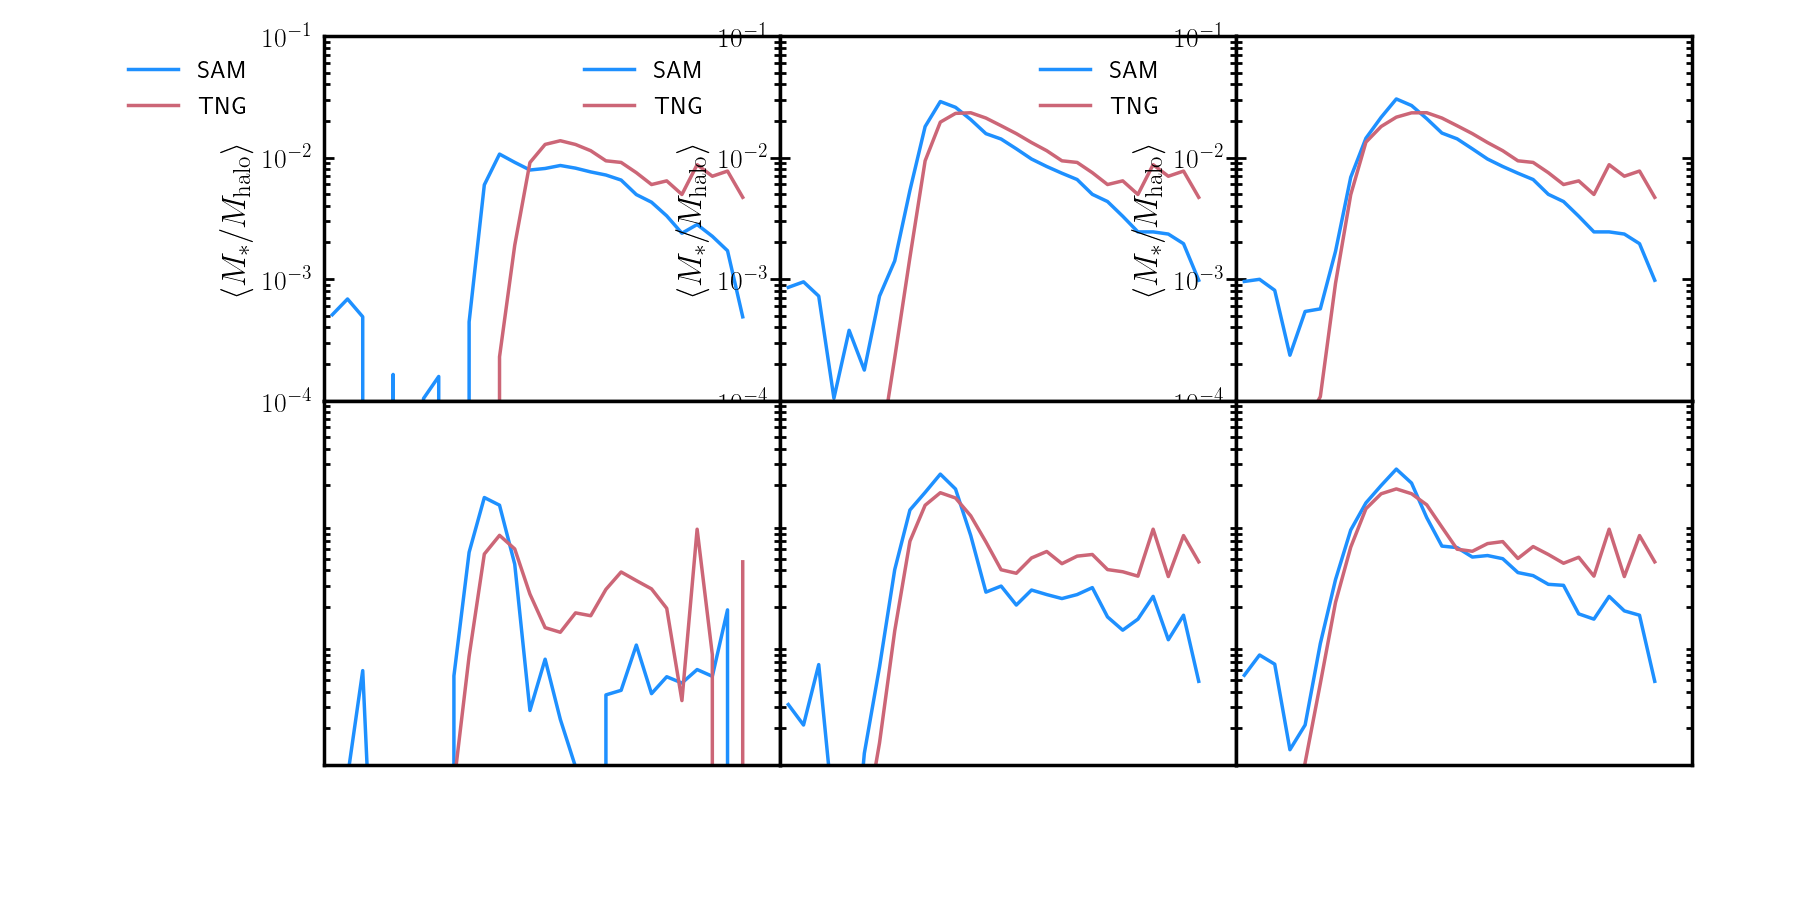
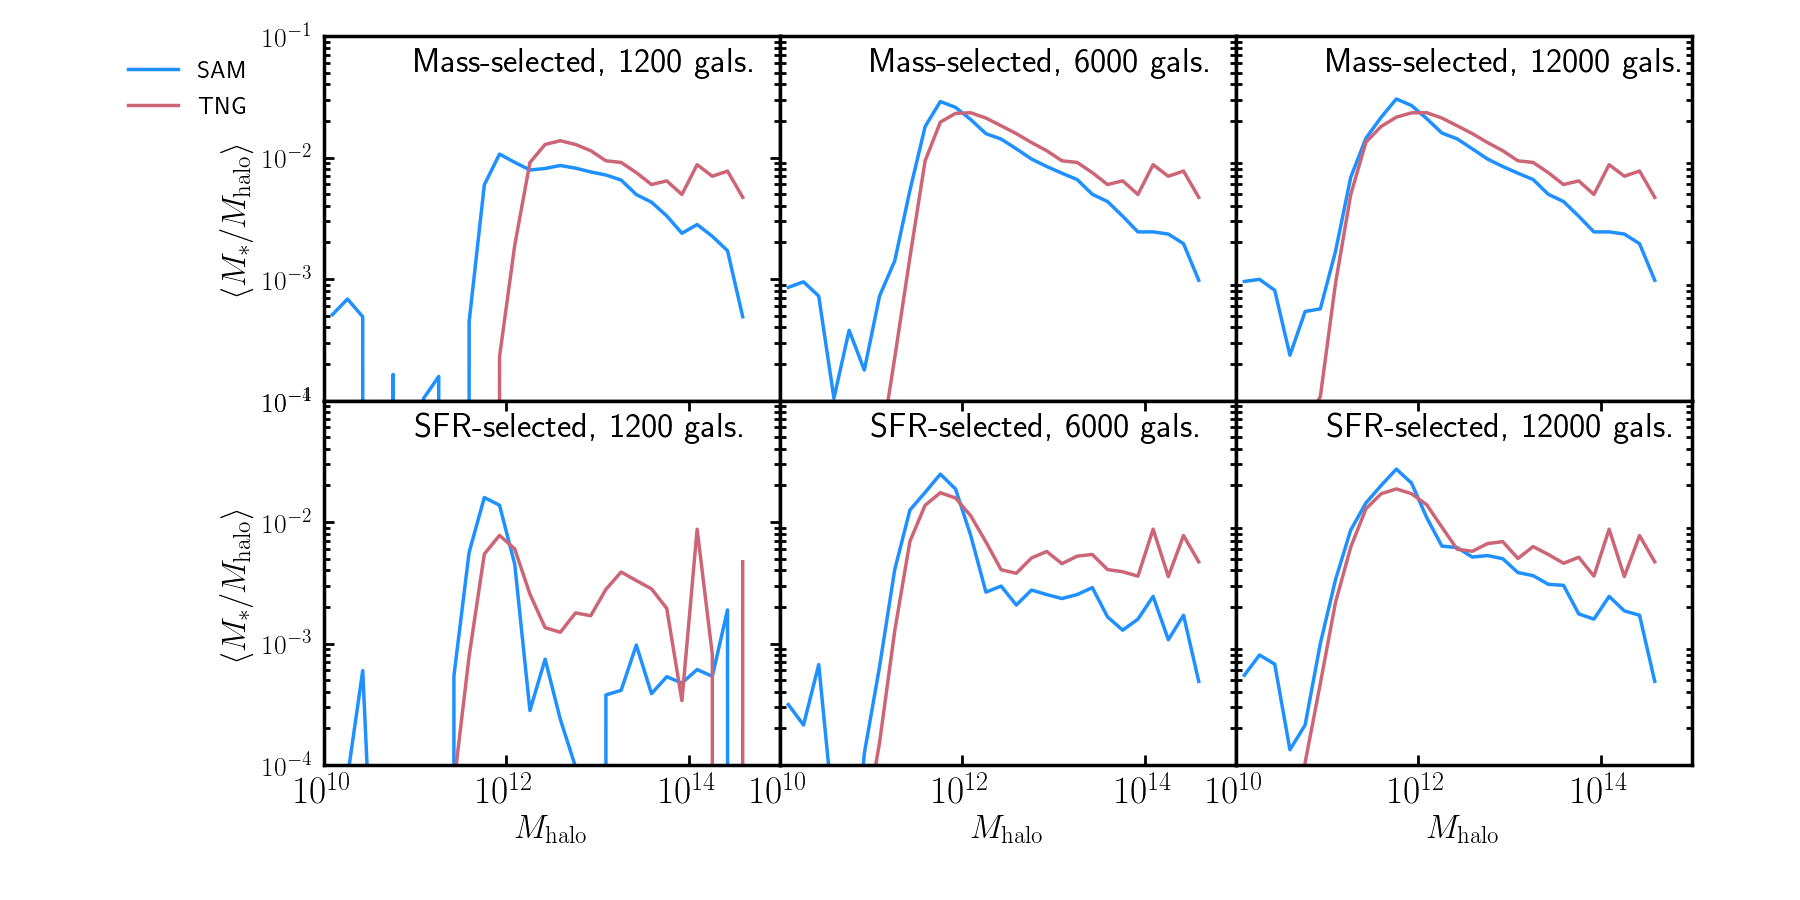
updates

diff --git a/plot_shmr.py b/plot_shmr.py
@@ -1,4 +1,6 @@
 import numpy as np
+import matplotlib
+matplotlib.use('Agg')
 import matplotlib.pyplot as plt
 import plotparams
 plotparams.buba()
@@ -25,12 +27,13 @@ for i in range(len(type_gals)):
     for j in range(len(num_gals)):
         
         plt.subplot(len(type_gals),len(num_gals),k+1)
-        k += 1
+        
         type_gal = type_gals[i]
         num_gal = num_gals[j]
         type_str = type_dict[type_gal]
-        
-        plt.title('%s, %d gals.'%(type_str,num_gals), fontsize=23, y=0.995)
+
+        plot_label = r'%s, %d gals.'%(type_str,num_gal)
+        #plt.title(plot_label), fontsize=23, y=0.995)
 
         shmr_sam = np.load("data_shmr/shmr_sam_"+str(num_gal)+"_"+type_gal+".npy")#
         shmr_hydro = np.load("data_shmr/shmr_hydro_"+str(num_gal)+"_"+type_gal+".npy")#
@@ -45,21 +48,22 @@ for i in range(len(type_gals)):
 
         plt.xscale('log')
         plt.yscale('log')
-        if i == 0:
+        if k == 0:
             plt.legend(bbox_to_anchor=(-0.12, 1), loc='upper right',frameon=False,fontsize=18)
         plt.ylim([1.e-4,0.1]) #
         plt.xlim([1.e10,1.e15])
-        plt.text(1.e12,.001,plot_label)
+        plt.text(1.e11,.05,plot_label)
 
-        if i >= 3:
+        if k >= 3:
             plt.xlabel(r'$M_{\rm halo}$')
         else:
             plt.gca().axes.xaxis.set_ticklabels([])
             plt.gca().axes.xaxis.set_ticks([])
-        if i in [0,3]:
+        if k in [0,3]:
             plt.ylabel(r'$\langle M_{\rm \ast}/M_{\rm halo} \rangle$') #
         else:
             plt.gca().axes.yaxis.set_ticklabels([])
             plt.gca().axes.yaxis.set_ticks([])
+        k += 1
 plt.savefig("figs/SHMR.png") #
 #plt.show()

diff --git a/plot_occupancy.py b/plot_occupancy.py
@@ -1,3 +1,5 @@
+import matplotlib
+matplotlib.use('Agg')
 import numpy as np
 import matplotlib.pyplot as plt
 import plotparams
@@ -25,12 +27,12 @@ for i in range(len(type_gals)):
     for j in range(len(num_gals)):
         
         plt.subplot(len(type_gals),len(num_gals),k+1)
-        k += 1
+
         type_gal = type_gals[i]
         num_gal = num_gals[j]
         type_str = type_dict[type_gal]
         
-        plt.title('%s, %d gals.'%(type_str,num_gals), fontsize=23, y=0.995)
+        plot_label = '%s, %d gals.'%(type_str,num_gal)
 
         hist_sam = np.load("data_hod/hist_sam_"+str(num_gal)+"_"+type_gal+".npy")#
         hist_hydro = np.load("data_hod/hist_hydro_"+str(num_gal)+"_"+type_gal+".npy")#
@@ -45,21 +47,22 @@ for i in range(len(type_gals)):
 
         plt.xscale('log')
         plt.yscale('log')
-        if i == 0:
+        if k == 0:
             plt.legend(bbox_to_anchor=(-0.12, 1), loc='upper right',frameon=False,fontsize=18)
         plt.ylim([1.e-2,100.]) #
         plt.xlim([1.e10,1.e15])
-        plt.text(1.e12,.014,plot_label)
+        plt.text(1.e11,.014,plot_label)
 
-        if i >= 3:
+        if k >= 3:
             plt.xlabel(r'$M_{\rm halo}$')
         else:
             plt.gca().axes.xaxis.set_ticklabels([])
             plt.gca().axes.xaxis.set_ticks([])
-        if i in [0,3]:
+        if k in [0,3]:
             plt.ylabel(r'$\langle N_{\rm gal} \rangle$') #
         else:
             plt.gca().axes.yaxis.set_ticklabels([])
             plt.gca().axes.yaxis.set_ticks([])
+        k += 1
 plt.savefig("figs/HOD.png") #
 #plt.show()

diff --git a/occupancy_variation.py b/occupancy_variation.py
@@ -1,3 +1,5 @@
+import matplotlib
+matplotlib.use('Agg')
 import matplotlib.pyplot as plt
 import numpy as np
 import plotparams # for making plots pretty, but comment out

diff --git a/shmr.py b/shmr.py
@@ -1,3 +1,5 @@
+import matplotlib
+matplotlib.use('Agg')
 import matplotlib.pyplot as plt
 import numpy as np
 import plotparams # for making plots pretty, but comment out

diff --git a/shuffle.py b/shuffle.py
@@ -1,3 +1,5 @@
+import matplotlib
+matplotlib.use('Agg')
 import matplotlib.pyplot as plt
 import numpy as np
 import plotparams # for making plots pretty, but comment out
